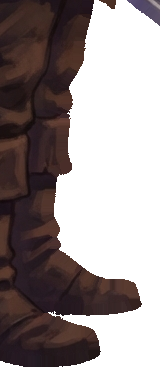
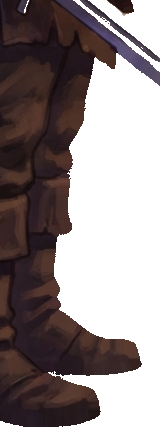
M5: the hero is rigged in Godot, verified against a real build (#41)
scenes/hero_rig.tscn: a real Skeleton2D. Hip is the root Bone2D with
Torso as its direct Sprite2D child; HipFar, HipNear, Shoulder and Neck
are child bones each carrying one more part. Every position (bones and
sprites, centered=false throughout) is set so the rest pose reproduces
the source painting exactly: a bone at absolute canvas point P, a sprite
whose crop offset is Q, gets local position Q - P.

Reassembling the five rig parts on one canvas at their recorded offsets,
before touching Godot at all, caught a real bug the part-by-part cuts
had missed: a gap between the torso's bottom edge and the legs' top
edge, left over from the earlier fix that pushed the legs down to dodge
a sword-blade sliver. Fixed by moving the legs back up to meet the torso
exactly and clearing the blade sliver by colour instead (it reads as
distinctly low-saturation, high-value grey against warm brown leather).
leg_near.png and leg_far.png are updated with the fix.

No Godot was installed in this session's environment. Downloaded the
official 4.7.2 Linux binary (matching README.md's pinned version) to
actually run import/test/shot rather than writing scene files and
hoping. tools/dev.sh test: 221 tests, 1572 checks, 0 failed, after all
of this. scenes/hero_rig_test.tscn wraps the rig with a Camera2D so
tools/dev.sh shot can frame it; capture.gd's --zoom/--centre only drive
a camera under something in the "player" group, and this scene has none.
[…]

Changed region(s): [[0.0, 0.0, 1.0, 0.9842], [0.0, 0.0579, 0.0312, 0.1158]]

diff --git a/ART.md b/ART.md
@@ -388,10 +388,26 @@ shapes too: the blade crosses diagonally in front of the legs, so any
 rectangle wide enough to hold the grip *and* the tip also swept in both
 boots, since a crop is axis-aligned and can't tell a blade pixel from a
 boot pixel sitting in the same rectangle. Stopping `arm_near`'s box at the
-fist and never trying to hold the blade in any box sidesteps the problem
-entirely. One tiny cosmetic miss survives it anyway: a sub-20px sliver of
-blade edge in the top corner of `leg_far`, left rather than chased further
-in a first-pass spike.
+fist sidesteps the worst of it. A small blade sliver still landed inside
+`leg_far`'s box regardless, the same geometry problem at a smaller scale;
+cleared by colour rather than chased with tighter geometry, since the blade
+reads as a distinctly low-saturation, mid-to-high-value grey against warm
+brown leather, easy to threshold and mask without touching the boot under
+it. Checked by eye against a red-marked preview before applying, so the
+mask wasn't trusted blind.
+
+**`draw the thing you measured` caught a real bug here, not just the
+sliver.** The first attempt at avoiding the blade problem pushed `leg_near`
+and `leg_far`'s top edge down to clear it, and it worked, no more blade in
+either crop. What it also did was leave a gap: the torso's box ends where
+its own content does, and the legs' new top edge started below that, so a
+band of hip and upper thigh that belongs to neither box was never cut at
+all. Invisible in each part looked at alone; obvious the moment all five
+parts were composited back onto one canvas at their recorded offsets, which
+is exactly why that reassembly check is worth doing before trusting a set
+of rig parts, not after. Fixed by moving the legs' top edge back up to meet
+the torso's bottom edge exactly, and clearing the blade sliver by colour
+instead of by geometry.
 
 **Boxes are allowed to overlap where two parts meet**, deliberately: the
 torso's box and the arm's box both contain some of the same shoulder
@@ -401,11 +417,50 @@ they're layered in the source painting, torso, then legs, then the arm on
 top, and the overlap is invisible: only the topmost part's pixels show
 where two boxes cover the same spot.
 
-**Actually assembling these into a `Skeleton2D` scene, placing `Bone2D`
-pivots and parenting each sprite, is still the manual step `ART.md` always
-said it would be.** This tool gets to "the rig parts exist, offset-preserved
-and ready," not to "the hero is rigged in Godot." That is M6's `BUILD_PLAN.md`
-line, or a follow-up here if M5 wants to prove the whole chain end to end.
+**That manual step happened too: `scenes/hero_rig.tscn` is a real
+`Skeleton2D`.** `Hip` is the root `Bone2D`, with `Torso` as its direct
+`Sprite2D` child; `HipFar`, `HipNear`, `Shoulder` and `Neck` are child bones
+each carrying one more part. Every bone's position and every sprite's
+position (`centered = false` throughout) is set so the rest pose reproduces
+the source painting exactly: a bone at absolute canvas point `P`, a sprite
+whose crop offset is `Q`, gets local position `Q - P`. `scenes/
+hero_rig_test.tscn` wraps it with a `Camera2D` for `tools/dev.sh shot` to
+frame, since `capture.gd`'s `--zoom`/`--centre` only drive a camera it finds
+under something in the "player" group, and this scene has no player.
+
+**Caught a real bug before it reached Godot, not after.** The first
+attempt at the leg boxes (see above) left a gap between the torso's bottom
+edge and the legs' new top edge, invisible looking at any one part alone.
+Compositing all five parts back onto one canvas at their recorded offsets
+in plain PIL, before touching Godot at all, showed it immediately: a band
+of missing hip and thigh. `CLAUDE.md`'s "draw the thing you measured" is
+the reason this check happened before the scene was built rather than
+after, and it is worth doing every time a set of rig parts is cut, not just
+this once.
+
+**A real Godot 4.7.2 engine quirk showed up too, confirmed harmless.**
+Every leaf `Bone2D` (one with no `Bone2D` child of its own, `HipFar`,
+`HipNear`, `Shoulder` and `Neck` here) logs "cannot calculate bone length or
+angle reliably" followed by an `ERROR: Condition "det == 0" is true" from
+`affine_invert`, on load, every time, regardless of `position`, `rest`,
+`length`, `bone_angle` or `autocalculate_length_and_angle`. Reproduced in a
+three-line scene with nothing but a `Skeleton2D`, one root bone and one leaf
+bone, so it is not this rig's structure at fault: `Bone2D.rest` defaults to
+`Transform2D(0, 0, 0, 0, 0, 0)`, a degenerate transform, and Godot's own
+internal bone-length auto-calculation tries to invert it for any bone with
+no child bone to infer a length from. The picture renders correctly despite
+it (verified: `tools/dev.sh shot` output, byte-identical figure to the PIL
+reassembly), and `capture.gd` still exits 0 and writes the PNG, so it is
+log noise, not a functional break. Worth knowing before someone spends an
+hour on it thinking it's a rig bug.
+
+**This was run against a real Godot, not just written and hoped for.** No
+Godot was installed in this session's environment; the official 4.7.2 Linux
+binary (matching `README.md`'s pinned version) was downloaded to `/tmp` to
+actually run `tools/dev.sh import`, `test`, and `shot`. That download does
+not persist between sessions in this kind of environment, so a future
+session here starts the same way: no `$GODOT`, fetch the binary before
+trusting anything Godot-shaped it writes.
 
 **4. The bat**, `assets/art_raw/enemy_bat.png`:
 
@@ -446,10 +501,10 @@ and proven against three real deliveries now, not just synthetic ones;
 `key.py`'s decontamination got a real fix along the way (see the tileset
 write-up above). `tools/cut-sheet.py` and `tools/cut-rig.py` are both built
 and proven, against the real tileset sheet and the real hero painting
-respectively. The hero's rig parts exist (`assets/art/hero/rig/`), but
-turning them into an actual `Skeleton2D` scene in Godot, `ART.md`'s own
-manual step, has not happened yet: M5's "one rigged hero" isn't there until
-that does, whether as part of this milestone or M6's. `tools/pose-sheet.py`
+respectively. **The hero is rigged in Godot now too**: `scenes/
+hero_rig.tscn`, a real `Skeleton2D`, verified by an actual screenshot
+against a real build, not just written and assumed correct. M5's "one
+rigged hero" is done. `tools/pose-sheet.py`
 is still not built: the pose-sheet test delivery is what will tell us its
 real shape. Porting from `hook-line-and-sentence` needs that repo attached
 to this session with push access, which this session's own permissions

diff --git a/HANDOFF.md b/HANDOFF.md
@@ -10,35 +10,39 @@ is M12's. See git log for the reasoning if it needs re-reading.
 
 ## Where this is
 
-**M5's background, tileset and hero have all landed**, and the hero is now
-cut into rig parts too (`assets/art/hero/rig/`: `head`, `torso`, `arm_near`,
-`leg_near`, `leg_far`, matching `ANIMATION.md`'s own "hips, two legs, two
-arms, head", minus the far arm this true profile hides entirely). The sword
-in the painting was deliberately not cut as a rig part: `CLAUDE.md` says the
-sword is its own scene, and the blade was only there so the hand would come
-back gripping something. Five lessons paid for and folded into `ART.md`/
-`GEMINI_NOTES.md` along the way, the compositional-prior fix (state framing
-positively, rule out the default by name) landing twice, once for a scene
-and once for a character; `key.py`'s despill needed a real fix, a 3px pull
-was not enough against a real 6-7px contamination band; and a character
-painting has no backdrop between its parts for a script to find, so
-`cut-rig.py`'s boxes are read off the source by eye, sized to avoid an
-axis-aligned rectangle sweeping in a distant, unrelated part (the sword's
-diagonal blade very nearly pulled both boots into the arm's crop).
+**M5's "one rigged hero" is done.** Background, tileset and hero landed;
+the hero is cut into rig parts (`assets/art/hero/rig/`) and assembled into
+a real `Skeleton2D` (`scenes/hero_rig.tscn`, framed for screenshots by
+`scenes/hero_rig_test.tscn`), verified against an actual running build, not
+just written and assumed correct. Bat and the pose-sheet test are what's
+left of M5's five prompts.
 
-**M5's done-when isn't fully met yet.** `BUILD_PLAN.md` wants "one rigged
-hero," and what exists is the rig's *parts*, offset-preserved and ready.
-Assembling them into an actual `Skeleton2D` scene in Godot, placing `Bone2D`
-pivots and parenting each sprite, is still open: always the manual step
-`ART.md` said it would be, not something `cut-rig.py` was ever meant to do.
+**No Godot was installed in this session's environment.** The official
+4.7.2 Linux binary (matching `README.md`'s pinned version) was downloaded to
+`/tmp` to run `import`/`test`/`shot` for real. That does not persist: a
+future session here starts the same way, no `$GODOT` until it fetches one.
+`tools/dev.sh test` passes clean, 221 tests, 1572 checks, after all of this.
+
+**Six lessons paid for and folded into `ART.md`/`GEMINI_NOTES.md`/here:**
+a scene or a character has a compositional prior a hedged instruction
+barely moves, state framing positively and rule out the default by name;
+the background is atmosphere only, the tileset carries the path; `key.py`'s
+despill needed a real fix, three-px was not enough against a real 6-7px
+contamination band; a character painting has no backdrop between its parts,
+so `cut-rig.py`'s boxes are read off by eye, and a prop crossing the body
+(the held sword) can drag an unrelated part into a box that holds both
+ends of it; **reassembling cut parts on one canvas before trusting them
+catches gaps a part-by-part look never will** (the leg boxes left a real
+gap between torso and legs, invisible until composited); and a Godot 4.7.2
+`Skeleton2D` logs a harmless but alarming `det == 0` error for every leaf
+`Bone2D`, confirmed by a three-line reproduction, not a sign of a rig bug.
 
 **6 generations spent, 3 of 5 M5 assets landed.** Past `ART.md`'s own
 budget-rule ceiling of 5 for the whole room now, not a hard stop since every
-miss bought a real lesson, but worth naming plainly. Bat and the
-pose-sheet test remain.
+miss bought a real lesson, but worth naming plainly.
 
 **`tools/key.py`, `tools/palette-check.py`, `tools/cut-sheet.py` and
-`tools/cut-rig.py`** are all built and proven against real deliveries now.
+`tools/cut-rig.py`** are all built and proven against real deliveries.
 `tools/pose-sheet.py` is still not built: the pose-sheet test delivery is
 what will tell us its real shape.
 
@@ -50,11 +54,10 @@ first try against a real delivery.
 
 ## The next action
 
-**Either the `Skeleton2D` assembly in Godot** (turning the rig parts now in
-hand into something that actually runs), **or the bat and pose-sheet test
-prompts**, mindful of the generation count above. Matt's call which comes
-first. M5's done-when (`BUILD_PLAN.md`): the room is in the game at final
-quality, and `ART.md` carries the real generation count.
+**The bat and pose-sheet test prompts**, mindful of the generation count
+above, are what's left of M5's five. Once they land, M5's remaining
+done-when is `ART.md` carrying the real generation count, which it already
+does as it goes.
 
 ## Blocked on Matt
 
@@ -68,7 +71,7 @@ quality, and `ART.md` carries the real generation count.
    a catch on purpose feels discoverable, the dormant scorpion's
    wake-to-danger gap.
 3. **Whether to keep spending generations at this rate**, per the flag above.
-4. **Skeleton2D assembly vs. the remaining two prompts**, which comes first.
+4. **The remaining two Gemini generations**, whenever he's ready.
 5. **Whether to attach `hook-line-and-sentence` with push access** for the
    tool ports `ART.md` names, or let this project's versions stand as written.
 
@@ -103,10 +106,17 @@ generous (`key.py` defaults to 10px now) or verified against real pixels,
 not assumed from how clean the edge looks zoomed out.
 
 **A held prop crossing the body can drag an unrelated part into a rig
-box.** A diagonal sword reaching from the hand to past the far boot means
-no axis-aligned rectangle can hold the whole blade without also holding
-whatever else sits in that rectangle. Keep a part's box to just that part;
-don't fold a crossing prop into it.
+box, or leave a gap when you fix that by moving the box instead of masking
+the prop.** Full write-up in `ART.md`'s cut-rig section. Reassemble cut
+parts on one canvas at their recorded offsets before trusting them; a gap
+between two parts is invisible looking at either one alone.
+
+**A Godot 4.7.2 `Skeleton2D` errors on every leaf `Bone2D`, harmlessly.**
+"No Bone2D children... cannot calculate bone length" then `ERROR: Condition
+"det == 0" is true` from `affine_invert`, on load, every time, regardless of
+`rest`/`length`/`bone_angle`/`autocalculate_length_and_angle`. Reproduced in
+a three-line scene. The render is correct and `capture.gd` still exits 0;
+it's engine log noise, not a rig bug, confirmed rather than assumed.
 
 ## Settled, do not relitigate
 
